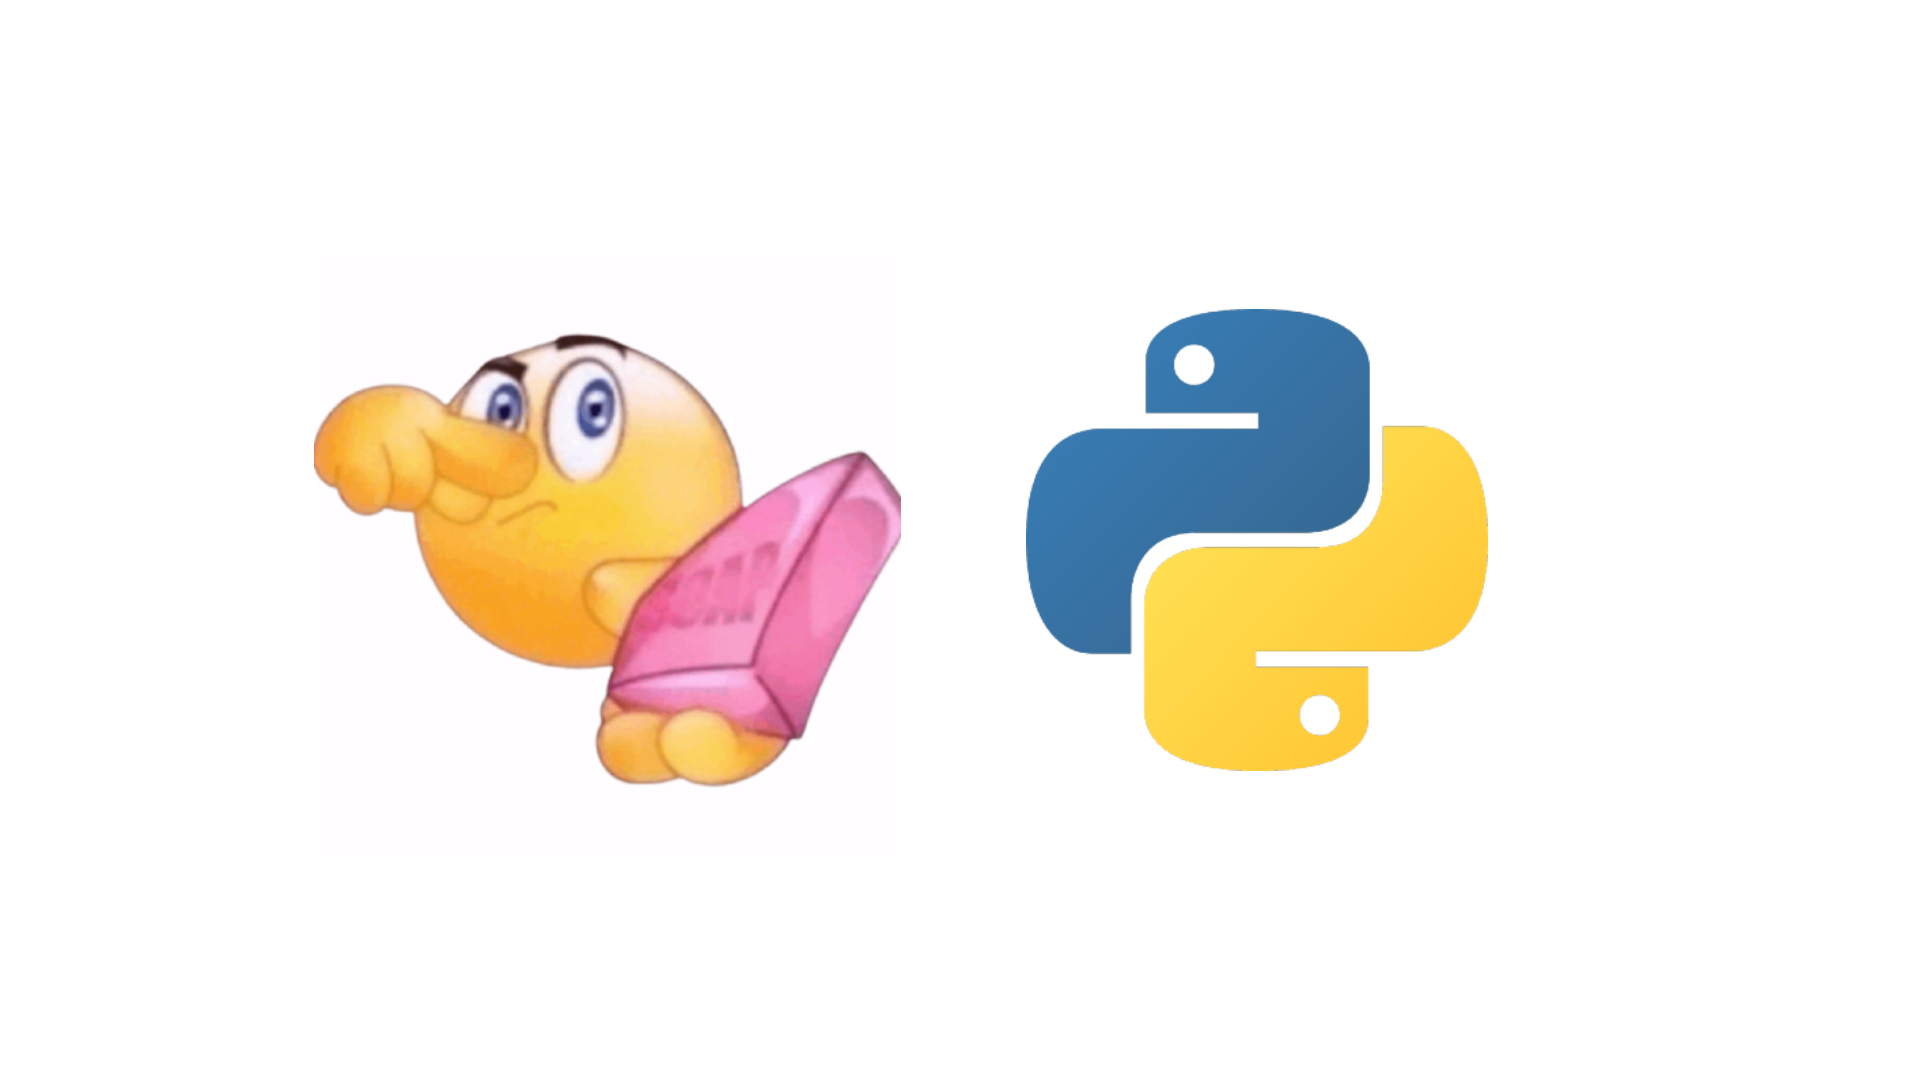
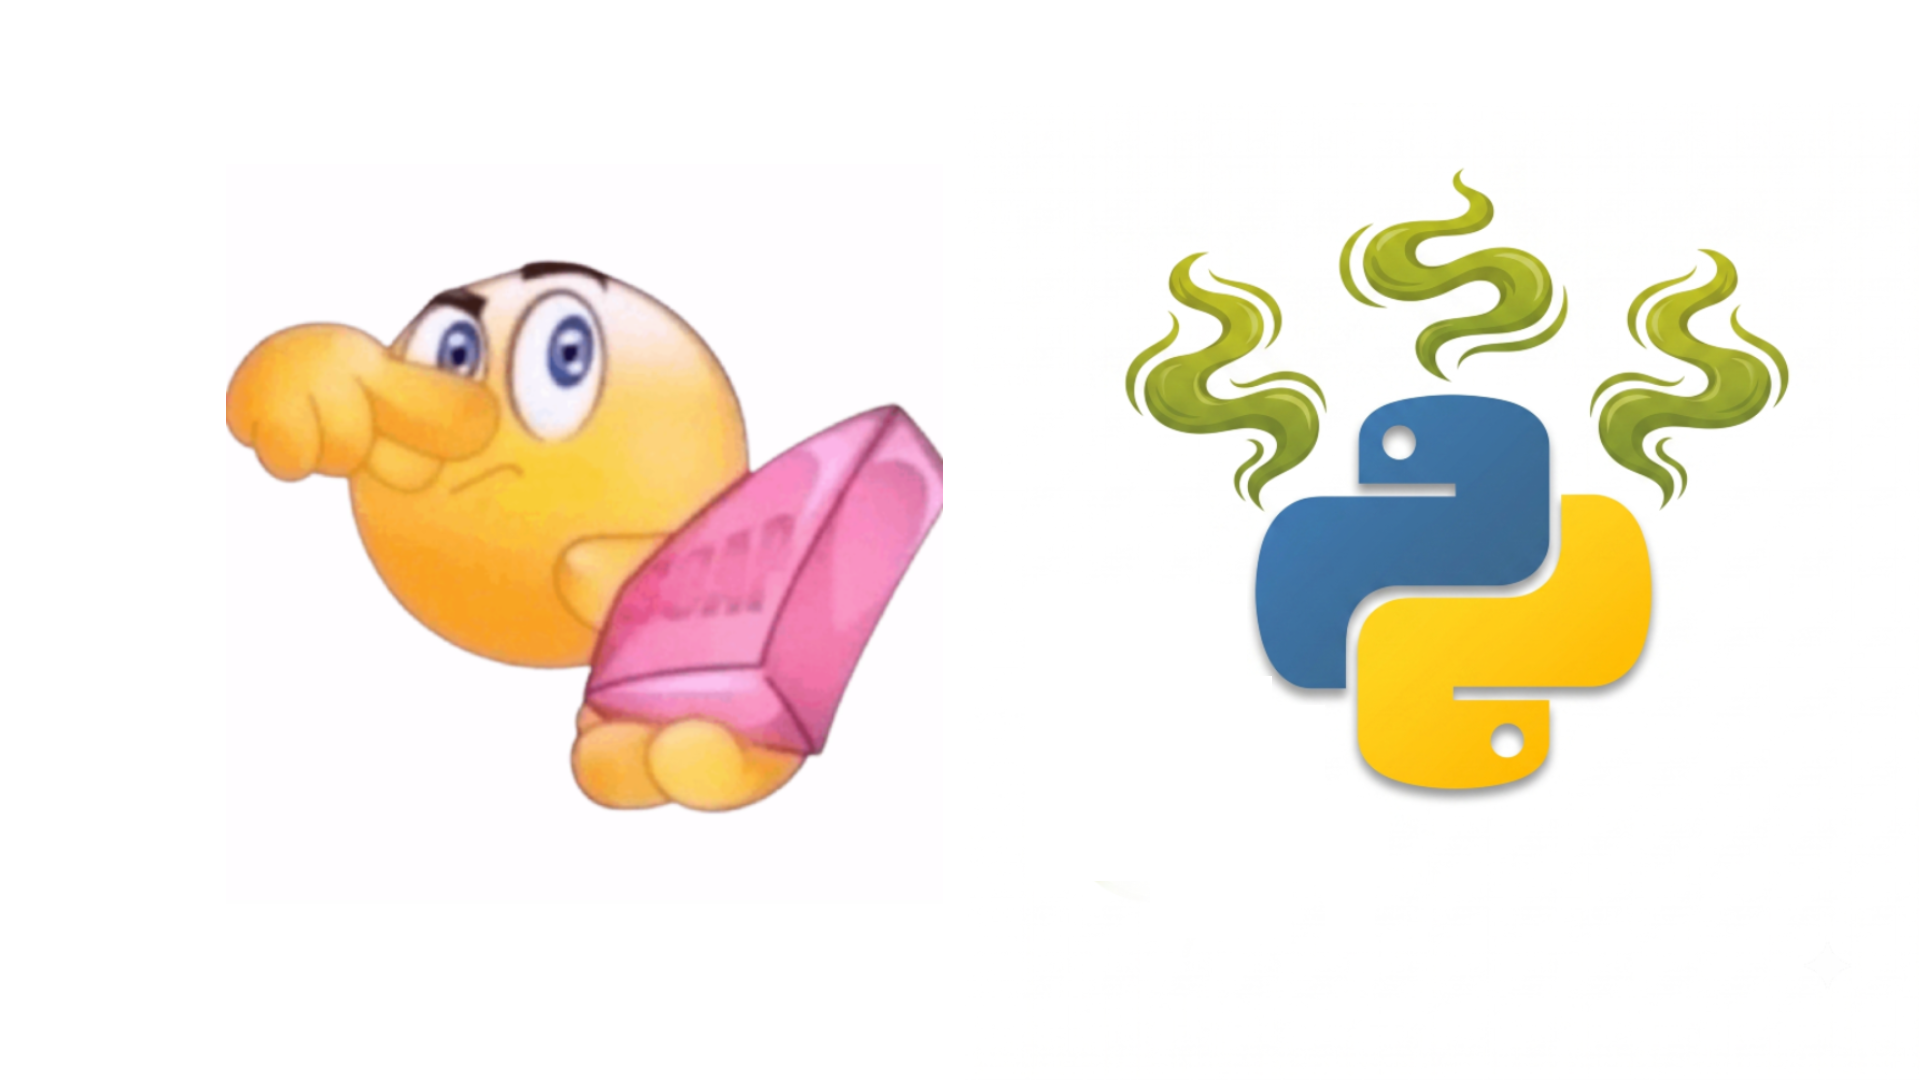
pb devlog draft 3

Changed region(s): [[0.5312, 0.1528, 0.9375, 0.7639], [0.0938, 0.2444, 0.5, 0.7639]]

diff --git a/src/posts/pb-1.md b/src/posts/pb-1.md
@@ -1,7 +1,7 @@
 ---
 layout: layouts/post.njk
-title: How I made my language faster than Python
-description: A brief breakdown of all the techniques I've employed so far to make Pogberry ~blazingly fast~
+title: How I made my language as fast as Python
+description: A brief breakdown of all the techniques I've employed so far to make Pogberry ~moderately fast~
 date: 2026-09-06
 author: Devansh
 tags: [posts, code]
@@ -19,7 +19,6 @@ I am not making this statement simply because the bytecode interpreter was compl
 Pogberry is a dynamically typed, garbage-collected, stack-based bytecode virtual machine written in C. Over time, it evolved into a fully fledged language environment with first-class hash maps, dynamic list arrays, lexical closures, a modular standard library, and even a native C backend for graphical applications. At a high level, Pogberry is split into four pieces: the **scanner**, the **compiler**, the **runtime object system**, and the **virtual machine**. The compiler takes the source code and asks the scanner to convert it into tokens, parses those tokens and emits bytecode into chunks, with each function owning its own chunk of bytecode and associated constants. The runtime contains the objects that make up the language — strings, functions, closures, classes, instances, lists, hash maps, and so on — along with the garbage collector that manages their memory. Finally, the VM executes the compiler's bytecode using a stack-based execution model, maintaining call frames for functions and manipulating values on the VM stack. Around these core components sits the standard library and the native-function interface, which allow Pogberry code to interact with functionality implemented in C.
 
 The bit that's the most important for this article is the VM. When executing a piece of code, PB does not execute native x86-64 machine code directly. Instead, it executes an artificial instruction set, much like an actual CPU's ISA. The responsibility for actually getting compiled down to assembly and the native ISA rests with GCC. Some important keywords to remember are:
-
 1. **The Code Stream (Chunk):** An array of bytes containing opcodes (e.g., `OP_ADD`, `OP_GET_LOCAL`, `OP_JUMP`) and their operand payloads (such as variable indices or jump offsets).
 2. **The Instruction Pointer (`ip`):** A raw pointer into that bytecode array tracking which instruction is currently executing.
 3. **The Value Stack (`stack`):** A contiguous buffer of values (numbers, booleans, object references). Values are pushed, operated on, and popped.
@@ -54,13 +53,11 @@ for (;;) {
 This looks efficient enough. But at the silicon level, this loop is an absolute minefield for modern CPUs. Modern processors are REALLY fast at executing linear code with predictable memory access. If we wish to make our code fast, there are three main goals we should keep in mind - reduce the number of assembly instructions produced for any task, use less memory so we hit the cache as often as possible and try to make it so that the CPU does not have to guess too much about what code will execute next. Unsurprisingly all of these come with massive asterisks, but they hold true at a high level. This may be a good time to hand you something precious - a grain of salt. Remember this blog was written by a graduate of the prestigious Bharati Vidyapeeth's College of Engineering.
 
 Anyway, modern CPUs make many techniques that break the traditional fetch-execute cycle most of us have in our minds. They rely on:
-
 - **Out of order execution**: CPUs don't always execute code in the same order the assembly specifies, dozens of instructions (which don't rely on each other) are executed simultaneously, memory fetches are predicted hundreds of clock cycles and advance. Instructions in consecutive chunks of assembly code may get executed through completely separate pathways inside the CPU.
 - **Branch prediction**: CPUs notice loops and keep track of which way an if-condition ends up evaluating most of the time. Based on this, on later iterations of a loop it bets which way the next iteration of the loop will jump and pre-loads the data required to execute that branch. If it guesses wrong, it has to clear everything it had gathered and go fetch the correct branch instead. This bet is usually worth it, as CPUs are fast but memory is slow. It is our job as language optimizers (?) to stack the gambling odds in the CPU's favour, for our own sake.
 - **L1/L2 cache** - If possible, a CPU would MUCH RATHER always read from its registers or L1/L2 caches. Accessing data from registers is instantaneous, L1 or L2 caches take 4 to 12 clock cycles to access the data, whereas the main memory - even fast DDR5 - takes 300 to 350 clock cycles. And it only gets slower from there. This does not really apply to us, but simply to drive the point home at how much we must value cache locality, I'd like to state how many clock cycles it takes other forms of storage to get data to the CPU. If we were unlucky enough to hit a page fault on our super fast DDR5 memory and had to fetch that page from our equally state of the art PCIe Gen 5 NVMe SSD, it'd take us over 100,000 clock cycles! We'd have to wait around 500,000 cycles for the data to arrive from a SATA SSD and it can easily take 75 million clock cycles to fetch data from a mechanical hard drive. Let's just try to get as much data as we can from our precious L1 and L2 caches.
 
 Our naive, educational implementation of a bytecode interpreter violates almost every single one of these preferences:
-
 - **Slow dispatch**: Every single bytecode instruction must read a byte(see code blurb above for clarity, it's really what happens inside the VM), jump through a C switch table (an indirect JMP *rax) and repeat. The branch predictor struggles because every opcode jumps from a fixed start place to an essentially random place. Predicting hundreds of different destination targets isn't exactly feasible for our hardcoded (literally) branch predictor.
 - **Memory Traffic Overload**: Pushing or popping values from the VM's stack calls C functions like push() or pop() that we had implemented. Every time a push or pop needs to happen, which is naturally quite often, the CPU must write the memory address of vm.stackTop, decrement of increment it, and spill registers onto the stack.
 - **Cache Line Thrashing**: If bytecode encoding is too wide, or if we use too many of them for simple instructions, or if the data structures jump through pointers too much, CPU cache lines get saturated with useless data, and the data we actually need gets evicted.
@@ -228,7 +225,6 @@ We're not done with this section yet. Beauty is only skin deep remember, and our
 Much better. Now `PUSH(val)` compiles down a single store instruction into the memory address held in the register for `stackTop` without the need for our code to jump to a whole another address to execute a simple function and then jump back in. Do not forget about the cache.
 
 We've made incredible advances already, but we've introduced a potential problem as well. If `ip` and `stackTop` only live in CPU registers inside `run()`, the memory copies in `vm.stackTop` and `frame->ip` become stale. This creates three main issues:
-
 1. The garbage collector is supposed to sweep all live roots, but if vm.stackTop memory is stale, newly pushed objects on the stack won't be marked and they'll be freed as garbage.
 2. When `runtimeError()` fires, it inspects the instruction pointer to report the file line number. If `frame->ip` is stale, the error reporter points to the wrong instructions.
 3. Native C functions like `join()` which we use in our stdlib of sorts access `vm.stackTop` directly.
@@ -253,7 +249,169 @@ Consider standard control flow, a literal `if` statement. As simple as programmi
 ```
 
 Notice that the VM executed an extra `OP_POP` opcode every single time a branch was taken. Executing 3 opcodes (`JUMP if false`, `JUMP if true`, `POP`) when the logic can be expressed in 1 opcode wastes precious CPU cycles. Admittedly this is benchmaxxing on my part. My benchmarks are repetitive after all, and they execute if-statements millions of times. But denser opcodes are an industry standard and are used often to make languages, or even CPUs faster. I am defending myself against an audience that isn't present, but if ISAs get to have newer instructions that just do multiple things, I get to have that too and call it a win. If statements are fundamental enough to any programming languages to warrant special treatment. Three new opcodes now exist:
-
 - **OP_JUMP_IF_FALSE**: Pops the condition frm the stack and immediately jumps if falsey.
 - **OP_JUMP_IF_TRUE_OR_POP**: If the top of the stack is truthy, it keeps the value on the stack and jumps over the rest of the expression. If it is falsey, it drops the value so the next operand can be evaluated. It makes `or` conditions inside if-conditionals faster.
 - **OP_JUMP_IF_FALSE_OR_POP**: The opposite of above. Used for `and` conditions inside if-statements. Shortcircuits on falsey values.
+
+## More Inlining
+
+We've already inlined push and pop operations. That was a massive win because unsurprisingly, those functions are called a lot during the execution of a program. Another thing we can hope to inline are comparisons. It's not that comparisons form a large chunk of a language's runtime computational load, but each equality check can be deceptively expensive. In dynamic languages such as PB, variables can contain any data types or first class values and hence equality checking can be arbitrarily complex, at any point we may be comparing lists, string contents or inspecting instances.
+
+Originally, PB used a general purpose C function:
+
+```c
+case OP_EQUAL: {
+  Value b = POP();
+  Value a = POP();
+  STORE_FRAME();
+  bool equal = valuesEqual(a, b);
+  PUSH(BOOL_VAL(equal));
+  break;
+}
+```
+
+As you can probably figure, every `==` check paid for a C function for `valuesEqual()` and had to call `STORE_FRAME()` to sync VM registers before the call (we talked about this a couple of points ago). In reality, the vast majority of equality comparisons compare one of the following:
+- Two numbers
+- Two booleans
+- Two identical object points (also known as strings in normal person talk, which is really fast when strings are interned)
+- A value against nil
+
+Hence, I inlined a fast path directly into the `OP_EQUAL` case. Again, I don't think it is wise to paste the entire code here, so I'd suggest giving `vm.c` a read. But in summary, we have a few simple if-statements that look like so:
+
+```c
+if (a.type == b.type) {
+    if (a.type == VAL_NUMBER) {
+      equal = (a.as.number == b.as.number);
+    // later overwrite the top value of the stack with the boolean value of equal
+    }
+    // handle the other simple cases, fallback to the original slow path otherwise
+}
+```
+
+## Inline Caching for Global Lookups
+
+Okay so the last two optimizations have been boring. I know you must be losing your motivation to read on further, but we're on the fun part now. This optimization, alongside the one we did for push and pop operations, made the greatest difference in performance.
+
+In Pogberry, global variables and top-level functions live in a hash table called `vm.globals`. Whenever a function is called, an opcode of the following form is pushed onto the VM's stack:
+
+`OP_GET_GLOBAL "function_name"`
+
+Originally, each OP_GET_GLOBAL did the following:
+
+1. Read the constant name from the constant pool ("fib" for example)
+2. Compute the hash or grab the precomputed hash of "fib" (if precomputed, the hash would be stored in the ObjString struct, which each string is an instance of)
+3. Probe the `vm.globals` hash table entries
+4. Extract the `Value`
+
+When recursively calculating the 32nd fibonacci number, the `fib` function is invoked over 7 million times. That means the VM did the whole song and dance to perform hash table lookups 7 million times just to find the exact same function pointer every single time. We can cache this.
+
+The key insight to keep in mind is that if a variable at bytecode offset X resolved to memory address Y on the previous iteration, it will almost certainly resolve to the same address Y on this iteration as well. If we cache a direct pointer to the hash table entry, future executions can bypass the hash table entirely. However, this cache must still be temporary. What if someone defines a new global, deletes a global or shadows `fib`? If the hash table resizes, all pointers into it become invalid. The solution for this is version-stamped inline caching.
+
+To keep it short, we add a version counter to the hash table. Whenever a variable is added or removed, we bump up the table's version by one. Then we attach an inline cache to each chunk. This cache takes the form of a new struct:
+
+```c
+// src/headers/chunk.h
+typedef struct {
+  Value *valuePtr;  // Direct pointer to the value inside the Table Entry
+  uint32_t version; // Version of the Table when this pointer was cached
+} GlobalCache;
+```
+
+This will make our `OP_GET_GLOBAL` blazingly fast. Inside it's switch case, we can add the following code:
+
+```c
+uint8_t slot = READ_BYTE();
+  GlobalCache *cache = &frame->closure->function->chunk.globalCache[slot];
+  Table *globals = globalsForFrame(frame);
+
+  // Cache Hit!
+  if (cache->version == globals->version && cache->valuePtr != NULL) {
+    PUSH(*cache->valuePtr);
+    break;
+  }
+```
+
+If our global cache version is the same as our function's cache version, it means that no new variables have been allocated or deallocated. We can safely dereference the pointer directly and avoid a trip to the dreaded Table. If the cache hit fails, no worries, the old slow path follows. We must not forget to populate the cache though, otherwise our work would mean nothing:
+
+```c
+cache->valuePtr = &entry->value;
+cache->version = globals->version;
+```
+
+Now, when we run our recursive fibonacci program, the first call to `fib` takes the slow path and records the pointer in the cache's valuePtr. Over the next 7 MILLION calls, we get a cache hit every single time and the program executes so fast you barely believe it. I mean it. Here's a screenshot to prove the speed difference we have achieved so far in our little fibonacci program:
+
+![First fib comparison](/assets/pb-1/fib-1.png)
+
+Our program takes only about 15% of the time it used to take (the number appearing in scientific notation in the old, slow build was a separate bug not worth talking about here). In fact, we have now achieved parity with Python. We take the same time to calculate fibonacci numbers as the language with 30 years of optimizations. Big hurray.
+
+![Second fib comparison](/assets/pb-1/fib-2.png)
+
+## Streamlining OP_RETURN and OP_CALL
+
+I'd just stated that the fibonacci program was now as fast as python. That should have marked the end of that article right? After all Pogberry is now as fast as Python. Alas, I must keep you here a little longer, we haven't beaten Python across all the benchmarks on average, we still have two final little things to care of, and then we will be done.
+
+First, lets talk about callable objects. Functions, native functions, classes and their bound methods - these are all the objects you can call in Pogberry. Unsurprisingly however, the vast majority of all the calls in a real program are to ObjClosure - functions, essentially. I would encourage making the project with `make opcodes` and running a few programs with the `--opcodes` flag. This would show you a count of all the opcodes that get called during the execution of that program. Of course, using the debug view which logs every single action taken by the VM, or using good ol' `perf` are also fine options. In this article I have mostly skipped over the reasoning behind choosing what I've so far chosen to optimize for the sake of brevity.
+
+Previously, every `OP_CALL` exited the interpreter switch statement to call generic C helper functions. You guessed it, its the same villain yet again. Creating unnecessary C call frames. 2 per every function call to be precise. That's over 14 million for our 32nd fibonacci number. We can use our heuristic to save us again. If most `OP_CALL` are for closures, well let's just add a dedicated fast path for it:
+
+```c
+// FAST PATH: Is it a Pogberry script function?
+  if (IS_OBJ(callee) && OBJ_TYPE(callee) == OBJ_CLOSURE) {
+    ObjClosure *closure = AS_CLOSURE(callee);
+    ObjFunction *function = closure->function;
+
+    if (argCount != function->arity) {
+      STORE_FRAME();
+      runtimeError("Expected %d arguments but got %d.", function->arity, argCount);
+      return INTERPRET_RUNTIME_ERROR;
+    }
+    if (vm.frameCount == FRAMES_MAX) {
+      STORE_FRAME();
+      runtimeError("Stack overflow.");
+      return INTERPRET_RUNTIME_ERROR;
+    }
+
+    // 1. Save caller's IP
+    frame->ip = ip;
+
+    // 2. Advance CallFrame
+    frame = &vm.frames[vm.frameCount++];
+
+    // 3. Set up new frame environment
+    frame->closure = closure;
+    frame->ip = function->chunk.code;
+    frame->slots = stackTop - argCount - 1;
+
+    // 4. Update local hardware registers
+    ip = frame->ip;
+    slots = frame->slots;
+```
+
+If it isn't a closure, we fall back to our trusted slow fella instead:
+
+```c
+STORE_FRAME();
+if (!callValue(callee, argCount)) return INTERPRET_RUNTIME_ERROR;
+LOAD_FRAME();
+break;
+```
+
+Our CPU loves us for saving it from creating and tearing down millions of frames.
+
+And now for the final optimization for today, we must recall what sets closures apart - capturing upvalues. Every function could capture upvalues, but most don't. I don't have a data point backing this up, it's a lemma I made up. Trust me, bro. The old `OP_RETURN` handler called a function called `closeUpvalue()` for every single function, even though most don't have any. The solution is stupidly simple. We just won't call the function if there are no upvalues to capture. Duh.
+
+```c
+if (vm.openUpvalues != NULL) {
+  closeUpvalues(frame->slots);
+}
+```
+
+The extra conditional and variable lookup would not be worth it if a sizeable chunk of closures contained upvalues, but for us it is well worth it. With this, I think it is time to run the benchmark suite again and see what pops out.
+
+![Benchmark at the end](/assets/pb-1/benchmark-final.png)
+
+Stop the count! We're still slower than Python in several areas, but I think it's fair to call Pogberry as fast as Python now. We're so much more efficient with our memory usage it's not even worth mentioning it. It's time to bring this article to a close.
+
+---
+
+Congratulations, you're among the top 1% of humans when it comes to attention span if you managed to read everything up till here. I'm thoroughly impressed. I have a reward for you - the journey isn't over! There's a lot more to do and you can look forward to another article coming soon (or maybe its already out). Pogberry can't just be as fast as Python, it's gotta be faster. I WILL make it blazingly fast. See you there!
